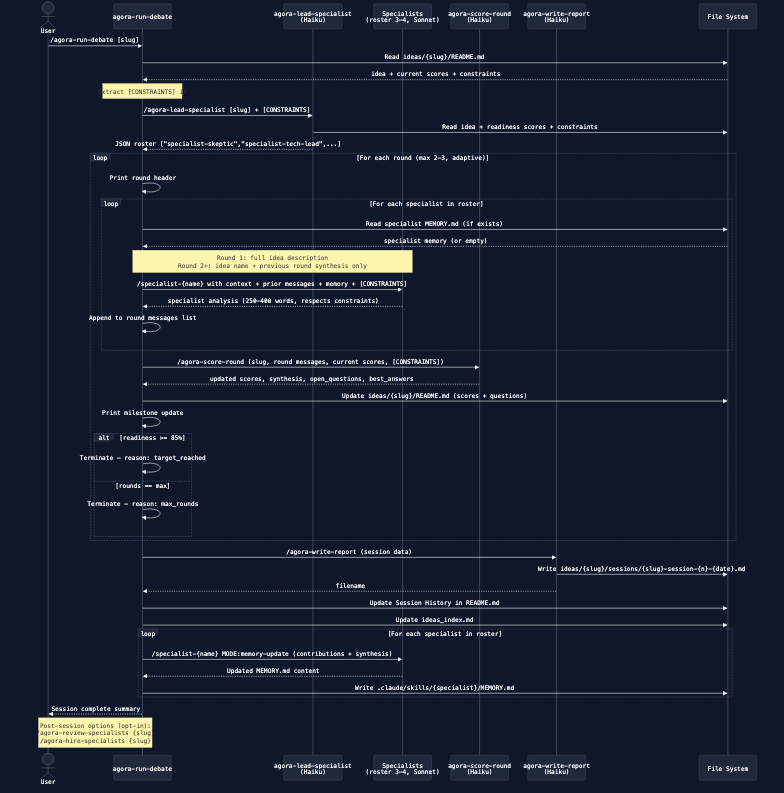
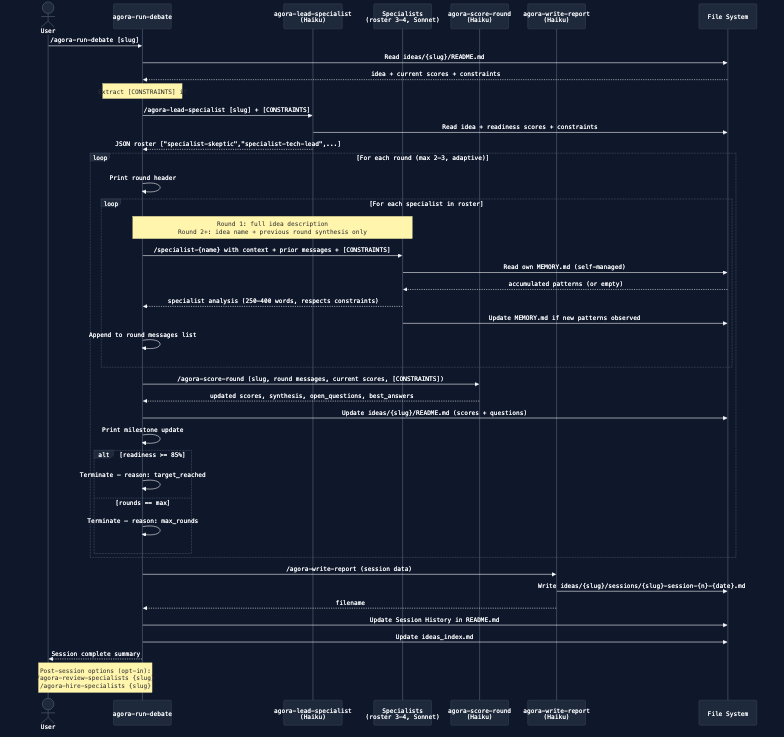
Update diagrams, landing page, and slides for agent-owned memory
Removed orchestrator-managed memory plumbing from all sequence diagrams:
agents now show self-managing their MEMORY.md (read at turn start, update
at turn end) rather than the orchestrator reading/injecting/writing back.
Updated the continuous improvement diagram to reflect the new agent-owned
flow. Regenerated all three affected PNGs. Landing page and slides updated
to match: MEMORY.md description, specialist frontmatter template
(tools: [Read, Write, Edit] + model field), and session flow diagrams.

diff --git a/docs/index.html b/docs/index.html
@@ -230,7 +230,7 @@
   <div class="max-w-4xl mx-auto text-center relative">
     <div class="inline-flex items-center gap-2 px-4 py-1.5 rounded-full text-xs sm:text-sm mb-6 md:mb-8 font-mono surface-bg" style="border:1px solid var(--bd);color:#818cf8;">
       <span class="w-2 h-2 rounded-full animate-pulse-slow" style="background:#818cf8;"></span>
-      Claude Code Skill System
+      Claude Code · Skills & Agents
     </div>
     <h1 class="text-4xl sm:text-5xl md:text-7xl font-black tracking-tight mb-5 md:mb-6 leading-none">
       <span class="t1">Ideas deserve</span><br/>
@@ -653,7 +653,7 @@
             <div class="card rounded-lg p-3"><div class="font-semibold mb-1" style="color:#c084fc;">Filter 1 — Session impact</div><div class="t2">Would this specialist materially change the next session's outcome?</div></div>
             <div class="card rounded-lg p-3"><div class="font-semibold mb-1" style="color:#c084fc;">Filter 2 — Reusability</div><div class="t2">Would &gt;50% of future ideas benefit from this specialist?</div></div>
           </div>
-          <p class="text-xs t3 mt-3">If approved → <code style="color:#818cf8;">/agora-build-specialist</code> runs 4 web searches, fetches 4–6 credible sources, synthesizes domain knowledge, and writes a research-grounded SKILL.md. Available for the very next session.</p>
+          <p class="text-xs t3 mt-3">If approved → <code style="color:#818cf8;">/agora-build-specialist</code> runs 4 web searches, fetches 4–6 credible sources, synthesizes domain knowledge, and writes a research-grounded agent definition in <code style="color:#818cf8;">.claude/agents/</code>. Available for the very next session.</p>
         </div>
       </div>
     </div>
@@ -740,21 +740,22 @@
         <div class="t4 pl-8">└── sessions/</div>
         <div class="t4 pl-12 text-xs">├── <span style="color:#818cf8;">{slug}-session-{n}-{date}.md</span></div>
         <div class="t4 pl-12 text-xs">└── <span style="color:#34d399;">{slug}-brainstorm-{n}-{date}.md</span></div>
-        <div class="t4 pl-4 mt-2">├── .claude/skills/</div>
+        <div class="t4 pl-4 mt-2">├── .claude/skills/ <span class="t3 text-xs">← workflow skills</span></div>
         <div class="t4 pl-8">├── <span style="color:#818cf8;">agora-run-debate</span>/</div>
         <div class="t4 pl-8">├── <span style="color:#818cf8;">agora-brainstorm</span>/</div>
-        <div class="t4 pl-8">├── <span style="color:#818cf8;">agora-lead-specialist</span>/</div>
-        <div class="t4 pl-8">├── specialist-<span style="color:#818cf8;">{name}</span>/ <span class="t3 text-xs">← debate</span></div>
-        <div class="t4 pl-12 text-xs t3">SKILL.md · MEMORY.md · CHANGELOG.md</div>
-        <div class="t4 pl-8">└── dreamer-<span style="color:#34d399;">{name}</span>/ <span class="t3 text-xs">← brainstorm</span></div>
-        <div class="t4 pl-12 text-xs t3">SKILL.md · MEMORY.md</div>
+        <div class="t4 pl-8">└── <span style="color:#818cf8;">agora-lead-specialist</span>/</div>
+        <div class="t4 pl-4 mt-1">├── .claude/agents/ <span class="t3 text-xs">← specialists & dreamers</span></div>
+        <div class="t4 pl-8">├── specialist-<span style="color:#818cf8;">{name}</span>.md <span class="t3 text-xs">← debate</span></div>
+        <div class="t4 pl-12 text-xs t3">+ {name}/MEMORY.md · CHANGELOG.md</div>
+        <div class="t4 pl-8">└── dreamer-<span style="color:#34d399;">{name}</span>.md <span class="t3 text-xs">← brainstorm</span></div>
+        <div class="t4 pl-12 text-xs t3">+ {name}/MEMORY.md</div>
         <div class="t4 pl-4 mt-2">└── analytics/</div>
         <div class="t4 pl-8 text-xs">sessions.jsonl · specialists.jsonl · brainstorms.jsonl</div>
       </div>
       <div class="space-y-4">
         <div class="card rounded-xl p-5"><div class="font-semibold t1 text-sm mb-2">ideas/{slug}/README.md</div><p class="text-xs t2">The living idea file. Contains the description, current readiness scores, open questions, constraints, notes, proposals from brainstorm sessions, and session history. This is what specialists read every session.</p></div>
         <div class="card rounded-xl p-5"><div class="font-semibold t1 text-sm mb-2">sessions/{slug}-session-{n}-{date}.md</div><p class="text-xs t2">Full session transcript with every specialist's analysis per round, round-by-round readiness scores, meta-specialist synthesis, and next-session recommendations.</p></div>
-        <div class="card rounded-xl p-5"><div class="font-semibold t1 text-sm mb-2">.claude/skills/specialist-{name}/MEMORY.md</div><p class="text-xs t2">Persists across sessions — specialists accumulate observations, learned patterns, and idea-specific context over time. Automatically updated after every session.</p></div>
+        <div class="card rounded-xl p-5"><div class="font-semibold t1 text-sm mb-2">.claude/agents/specialist-{name}/MEMORY.md</div><p class="text-xs t2">Persists across sessions — specialists accumulate observations and learned patterns over time. Each agent reads its own memory at the start of every turn and writes updates autonomously after contributing.</p></div>
         <div class="card rounded-xl p-5"><div class="font-semibold t1 text-sm mb-2">analytics/*.jsonl</div><p class="text-xs t2">One record per session/review in JSONL format. Feeds the analytics dashboard for tracking readiness trends, specialist performance, and session KPIs over time.</p></div>
       </div>
     </div>
@@ -771,13 +772,14 @@
       <div>
         <h3 class="font-bold t1 mb-4 text-lg">Add a new specialist</h3>
         <div class="code-block rounded-xl p-5 text-xs leading-relaxed">
-          <div class="t3 mb-3"># 1. Create the skill file</div>
-          <div style="color:#34d399;">.claude/skills/specialist-{name}/SKILL.md</div>
+          <div class="t3 mb-3"># 1. Create the agent file</div>
+          <div style="color:#34d399;">.claude/agents/specialist-{name}.md</div>
           <div class="mt-3 t4">---</div>
           <div class="t4">name: specialist-{name}</div>
           <div class="t4">description: {Role} specialist for Agora</div>
-          <div class="t4">user-invocable: false</div>
-          <div class="t4">context: fork</div>
+          <div class="t4">tools: [Read, Write, Edit]</div>
+          <div class="t4">memory: project</div>
+          <div class="t4">model: claude-sonnet-4-6</div>
           <div class="t4">version: "1.0.0"</div>
           <div class="t4">---</div>
           <div class="mt-3 t3"># 2. Add selection rules to:</div>
@@ -869,7 +871,7 @@
           </div>
           <span class="font-bold t1 text-lg">Agora</span>
         </div>
-        <p class="text-sm t3 leading-relaxed">A multi-agent AI debate system for developing raw ideas into PoC-ready specifications. Built as a Claude Code skill system — no servers, no deployment, just plain text and intelligence.</p>
+        <p class="text-sm t3 leading-relaxed">A multi-agent AI debate system for developing raw ideas into PoC-ready specifications. Built as a Claude Code skill + agent system — no servers, no deployment, just plain text and intelligence.</p>
       </div>
       <div class="grid grid-cols-2 gap-8 text-sm">
         <div>

diff --git a/docs/presentation/slides.md b/docs/presentation/slides.md
@@ -81,13 +81,15 @@ ideas/
     sessions/
       agora-session-1-20260508.md
 
-.claude/skills/
-  agora-add-idea/      ← structured intake
-  agora-add-constraint/
+.claude/skills/        ← workflow skills
+  agora-add-idea/
   agora-run-debate/    ← orchestrator
   agora-lead-specialist/
-  specialist-skeptic/
-  specialist-tech-lead/
+  ...
+
+.claude/agents/        ← specialists & dreamers
+  specialist-skeptic.md
+  specialist-tech-lead.md
   ...
 ```
 
@@ -229,14 +231,14 @@ sequenceDiagram
 
     loop Each round (2–3)
         Note over RD,SA: Round 1: full description · Round 2+: synthesis only
-        RD->>SA: context + prior messages + memory
+        RD->>SA: context + prior messages + [CONSTRAINTS]
         SA-->>RD: 250–400 word analysis each
+        Note over SA: reads + updates own MEMORY.md
         RD->>SR: Score 10 dimensions
         SR-->>RD: Scores + synthesis
     end
 
     RD->>RD: Write session report
-    RD->>SA: Update specialist memories
     Note over RD,User: Opt-in: /agora-review-specialists · /agora-hire-specialists
 ```
 
@@ -270,7 +272,7 @@ sequenceDiagram
     end
 
     BS->>BS: Write report + merge proposals into idea
-    BS->>DR: memory-update mode
+    Note over DR: each dreamer reads + updates own MEMORY.md
 ```
 
 <!--
@@ -535,16 +537,15 @@ layout: two-cols
 
 ### Add a new specialist
 
-Create `.claude/skills/specialist-{name}/SKILL.md`:
+Create `.claude/agents/specialist-{name}.md`:
 
 ```yaml
 ---
 name: specialist-{name}
 description: {Role} specialist for Agora.
-user-invocable: false
-context: fork
-model: sonnet
-author: {your name}
+tools: [Read, Write, Edit]
+memory: project
+model: claude-sonnet-4-6
 version: 1.0.0
 ---
 ```
@@ -667,7 +668,7 @@ status: pending
 
 Contains:
 - **Observed issues** with evidence (round + quote)
-- **Proposed SKILL.md changes** (current → new text)
+- **Proposed agent definition changes** (current → new text)
 - **Breaking change analysis** and affected specialists
 
 </div>
@@ -680,8 +681,8 @@ Contains:
 
 **Applying a proposal** (`/agora-apply-specialist-update`):
 
-1. Validates skill version matches the proposal
-2. Applies each text change to SKILL.md
+1. Validates agent version matches the proposal
+2. Applies each text change to the agent definition
 3. Bumps version in frontmatter
 4. If breaking → cascades a patch to affected specialists
 5. Marks proposal `status: applied`
@@ -736,7 +737,7 @@ If either fails, no job-post is written.
 1. Runs 4 targeted web searches on the domain
 2. Fetches 4–6 credible sources
 3. Synthesizes frameworks, failure modes, benchmarks
-4. Writes the SKILL.md with research-grounded instructions
+4. Writes the agent definition in `.claude/agents/` with research-grounded instructions
 5. Optionally writes reference files for complex domains
 6. Registers the specialist in the lead-specialist roster
 7. Marks the job-post as `built`
@@ -757,13 +758,13 @@ layout: two-cols
 
 # Cost Optimization
 
-Each skill declares an **intended model tier** via `model:` in frontmatter.
+Workflow skills declare an **intended model tier** via `model:` in frontmatter. Specialist and dreamer agents (`.claude/agents/`) run as subagents invoked by orchestrators.
 
 > ⚠ Claude Code does not currently support per-skill model routing — the field is representational. A routing mechanism is being researched.
 
 <div class="text-sm mt-3">
 
-| Tier | Intended model | Skills |
+| Tier | Intended model | Components |
 |---|---|---|
 | Helpers | **Haiku** | lead-specialist · score-round · write-report |
 | Agents | **Sonnet** | all 8 specialists · all 5 dreamers |
@@ -812,11 +813,12 @@ agora/
 ├── .claude/skills/
 │   ├── agora-run-debate/    ← debate orchestrator
 │   ├── agora-brainstorm/    ← brainstorm orchestrator
-│   ├── agora-lead-specialist/
-│   ├── specialist-{name}/   ← debate specialists
-│   │   ├── SKILL.md · MEMORY.md · CHANGELOG.md
-│   └── dreamer-{name}/      ← brainstorm dreamers
-│       └── SKILL.md · MEMORY.md
+│   └── agora-lead-specialist/
+├── .claude/agents/
+│   ├── specialist-{name}.md ← debate specialists
+│   │   (+ {name}/MEMORY.md · CHANGELOG.md)
+│   └── dreamer-{name}.md    ← brainstorm dreamers
+│       (+ {name}/MEMORY.md)
 └── analytics/
     ├── sessions.jsonl        ← debate KPIs
     ├── specialists.jsonl     ← specialist performance
@@ -839,7 +841,7 @@ Each idea file tracks its own readiness scores, session history, and open questi
 
 <v-click>
 
-**Specialist skill files** contain:
+**Specialist agent files** contain:
 - Their role definition and debate instructions
 - A memory file updated after every session
 - A changelog of improvements applied
